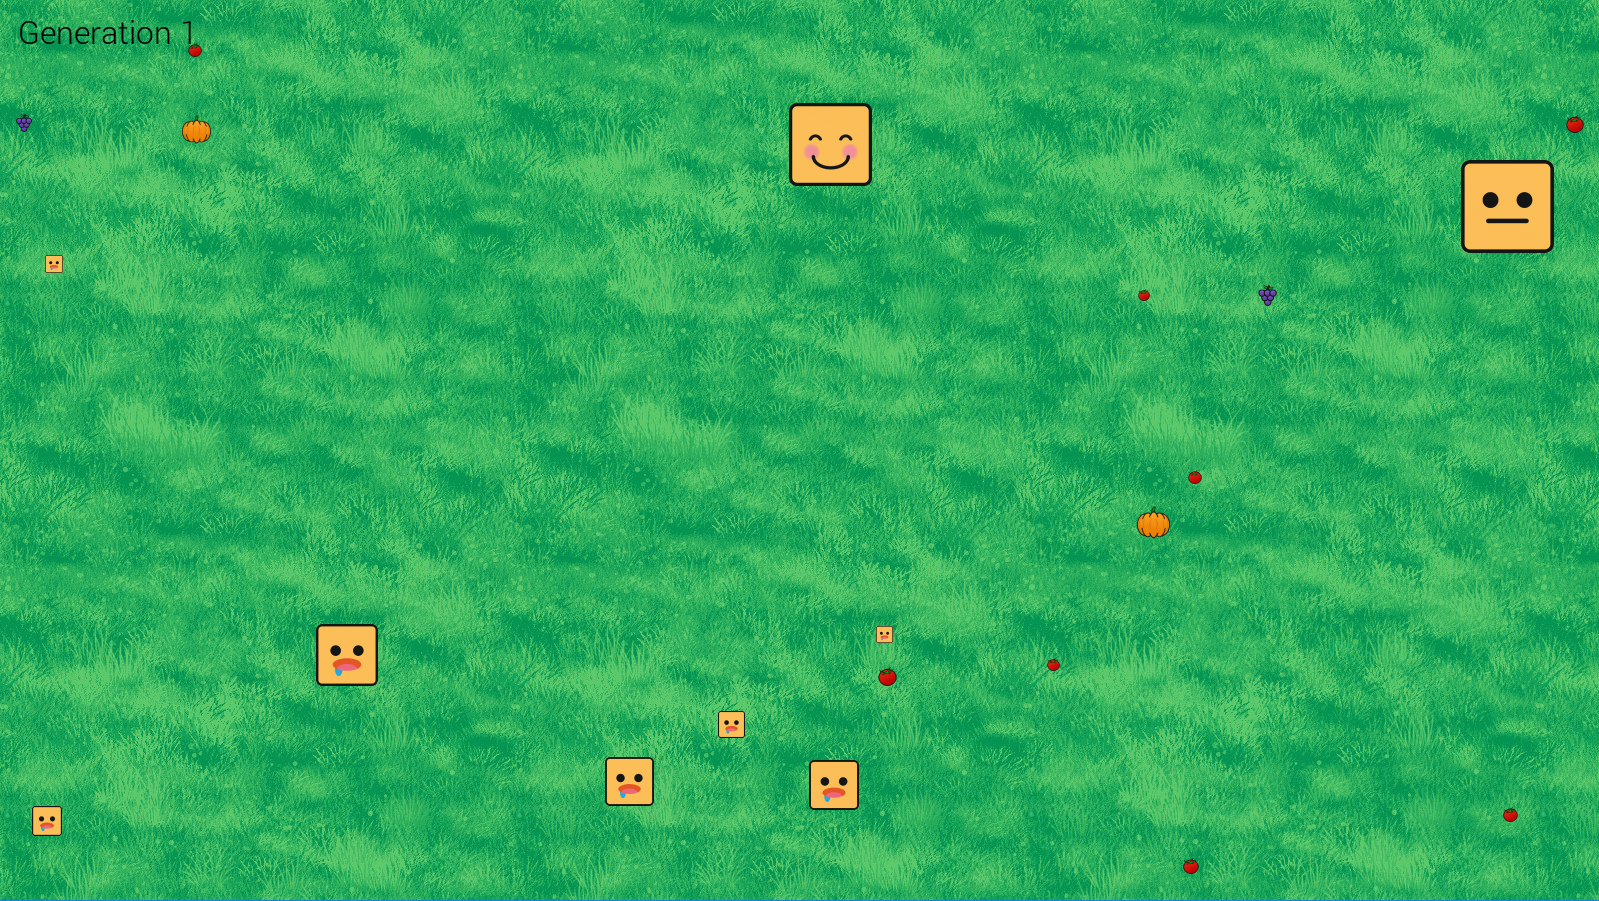
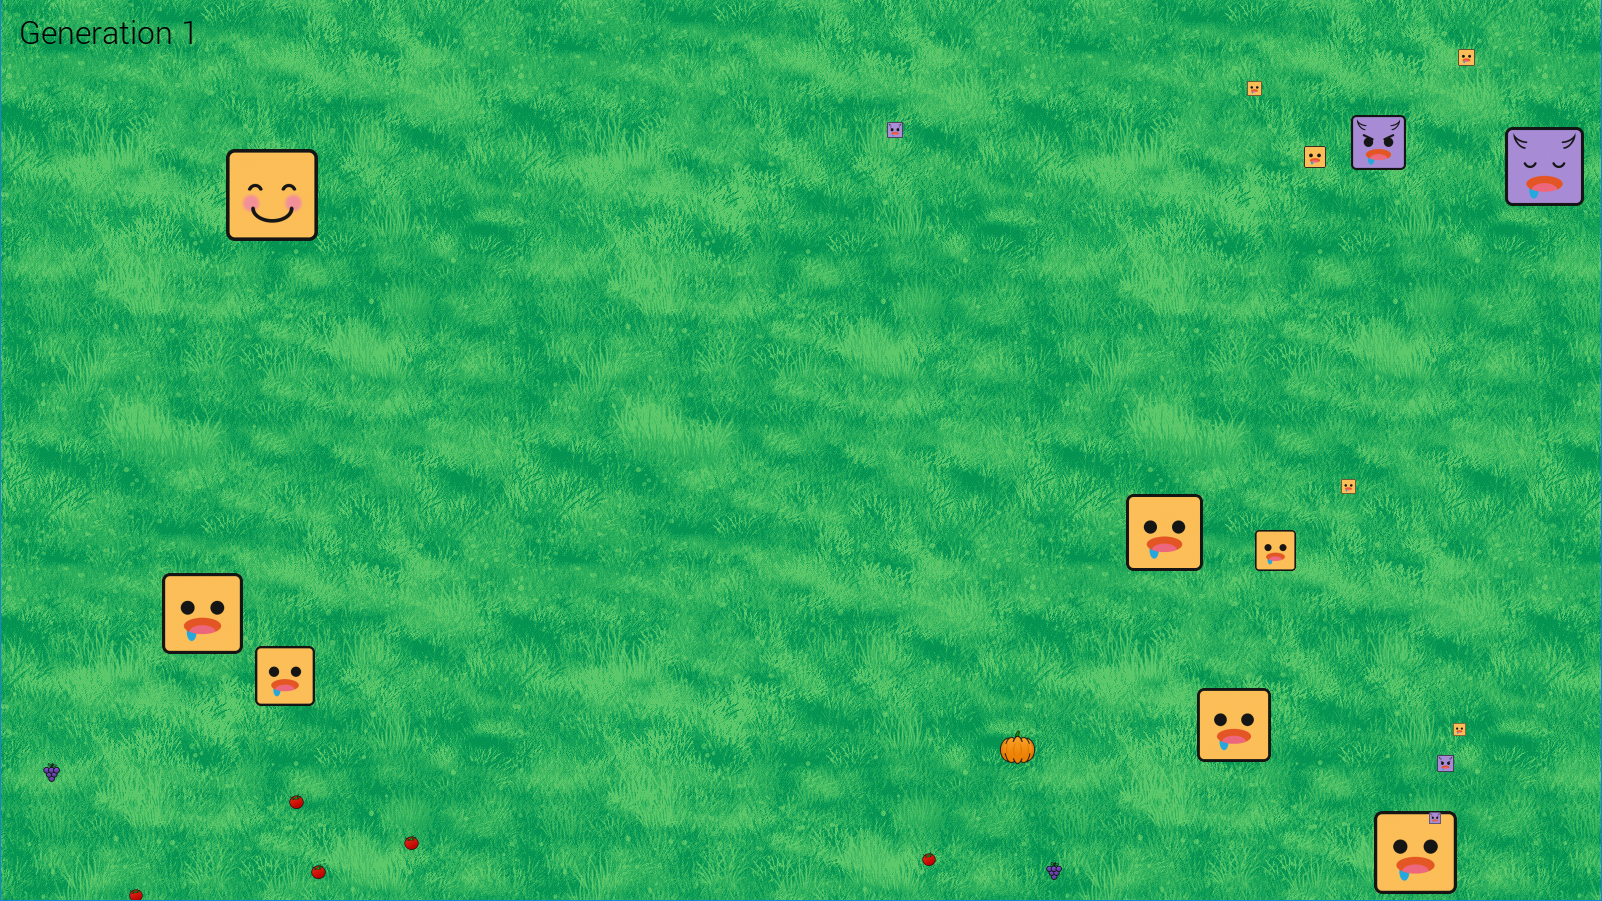
update README.md

diff --git a/config.py b/config.py
@@ -5,8 +5,8 @@ frame_rate = 60 # Base frame rate
 num_tomato = 40
 num_pumpkin = 15
 num_grape = 20
-num_basic_searching_herbivores = 25
-num_predator = 0
+num_basic_searching_herbivores = 20
+num_predator = 5
 
 predators_can_eat_each_other = False
 

diff --git a/README.md b/README.md
@@ -1,5 +1,5 @@
 # Evolution Simulation
-The simulation consists of an endless number of rounds. In each round, *n* creatures are spawned in the center of the screen and food is spawned outside of the center. Creatures will move around, eat food, and grow until all the food is consumed. If they eat enough food, they will produce offspring and pass on their traits. The traits of their offspring will be randomly mutated based on the parent's values. 
+The simulation consists of an endless number of rounds. In each round, *n* herbivores are spawned in the center of the screen, and *m* carnivores are spawned a configurable distance away from the center. Vegetables will be spawned outside of the center. Carnivores will try to eat the herbivores and herbivores will try to eat vegetables. If a carnivore has reached maximum size they will go to sleep and no longer hunt. The generation ends once all vegetables are eaten. If a creature eats enough food, they will produce offspring for the next round and pass on their traits. The traits of their offspring will be randomly mutated based on the parent's values. 
 
 To run the simulation:
 1. Run `pip install -r requirements.txt` or install the requirements into a virtual environment.
@@ -13,11 +13,20 @@ The simulation ends on user input, or when there is a round with no offspring.
 
 ## Creature Traits
 
+<p align="center">
+  <img src="./assets/creature_states.png" width = 430>
+
+
+*The different states of the herbivores in the simulation. Hungry, Neutral, Satisfied.*
+ </p>
+
 The following traits can be passed down to the next generation.
 
-`max_size` - The maximum size of the creature. This determines a creature's hunger, the amount of food needed for the creature to produce offspring for the next generation.
+`max_size` - The maximum size of the creature. This determines a creature's hunger, the amount of food needed for the creature to produce offspring for the next generation. 
 
-`width, height` - The size of the creature in pixels. Maximum velocity is decreased as the creature grows. 
+`width, height` - The size of the creature in pixels. Maximum velocity is decreased as the creature grows. Bigger creatures are more difficult to eat. 
+
+`defense` - This is part of the formula that determines if a creature can be eaten by a carnivore. Higher defense means that the creature is harder to eat. Since the game can be configured so that carnivores can eat each other, carnivores will have this trait as well.
 
 `jerk` - The rate of change of acceleration.
 
@@ -27,14 +36,17 @@ The following traits can be passed down to the next generation.
 
 `num_offspring_divisor` - If the creature survives the round, they will produce <img src="./assets/equation_1.gif" width=150> children for the next round.  If a creature survives a round they will produce at least one child. 
 
-`search_distance` - The distance that a creature can sense food at. If there is no food within the search distance, the creature will move randomly. 
+`search_distance` - The distance that a creature can sense food at. If there is no food within the search distance, the creature will move randomly. Carnivores will only be attracted to creatures that they can consume.
 
+### Carnivore Specific Traits
+
+`attack` - This is part of the formula that determines if a carnivore can eat a creature. Higher attack means that it is easier to eat other creatures.
 
 <p align="center">
-  <img src="./assets/creature_states.png" width = 430>
+  <img src="./assets/carnivore_states.png" width = 430>
 
 
-*The different states of the creatures in the simulation. Hungry, Neutral, Satisfied.*
+*The different states of the carnivores in the simulation. Hungry, Hibernating.*
  </p>
 
 ## Configuration 
@@ -46,8 +58,15 @@ The following traits can be passed down to the next generation.
 
 `base_...` - The base values of the Traits defined above for the first generation. Note that these values will be randomly mutated even for the first generation of creatures.
 
+`predators_can_eat_each_other` - If this is set to true then predators can eat each other if they collide.
+
 ## User Input
 Press `Escape` or the `X` button to exit the simulation. Press the `Left` and `Right` arrow keys to change the game speed. 
 
 ## Logs
 After the simulation ends, a csv file of all the creatures in the simulation will be written into the `logs` folder. 
+
+## Analysis
+Analysis of some interesting simulations can be found in the `analysis` folder.
+
+TODO: Put example here. 
